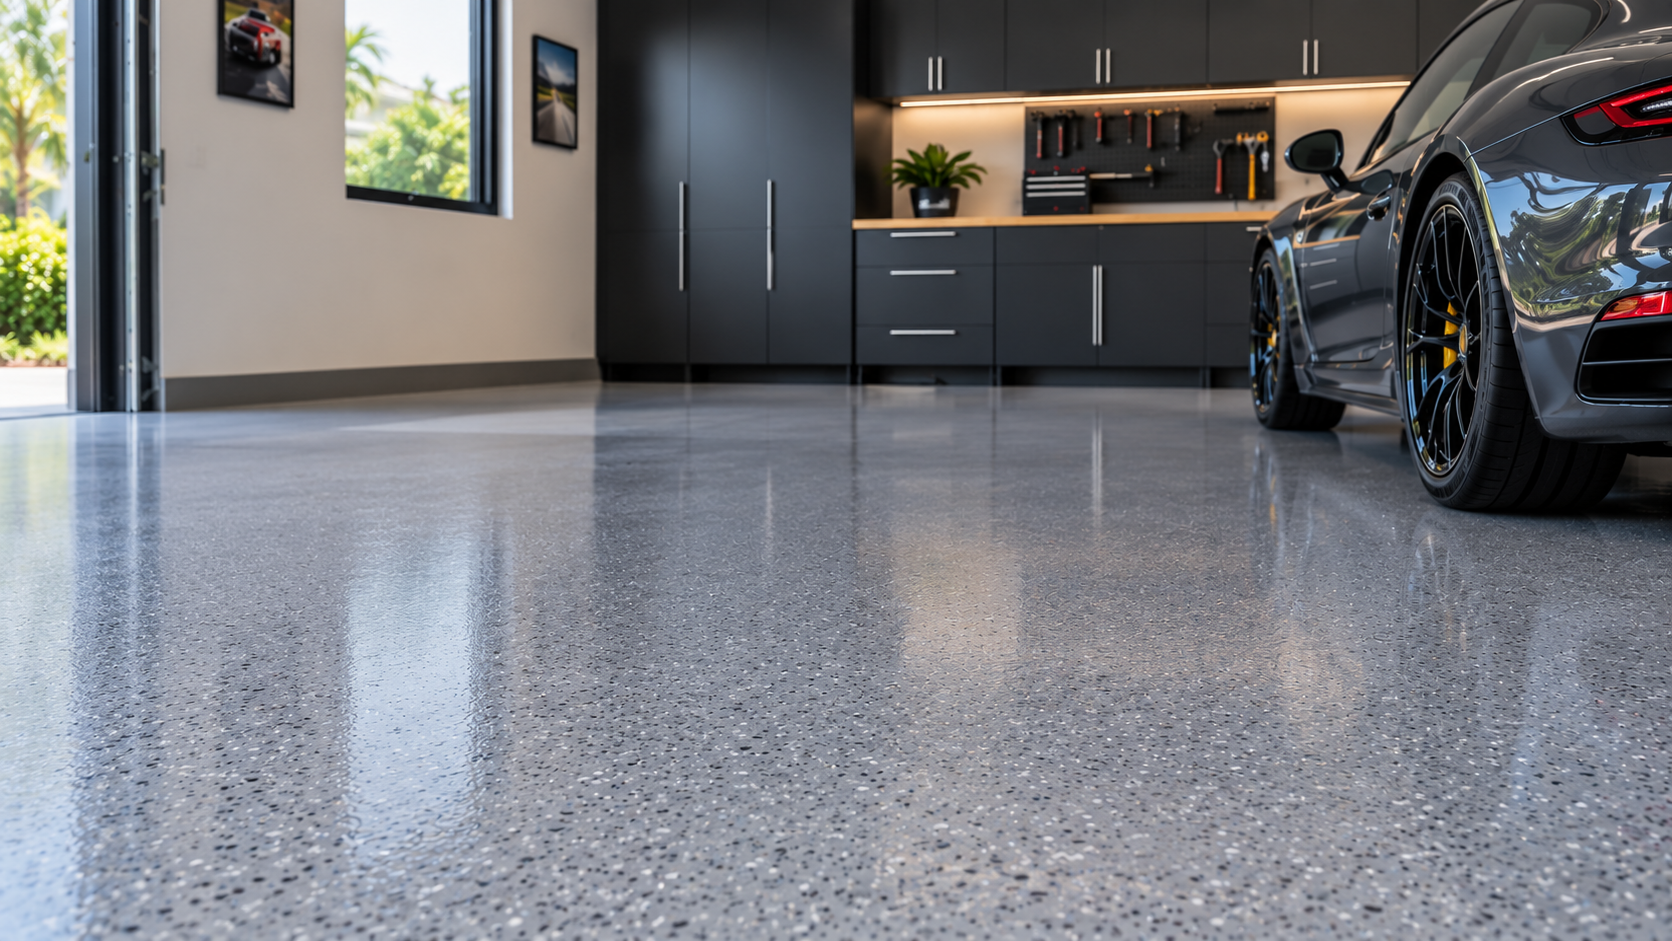
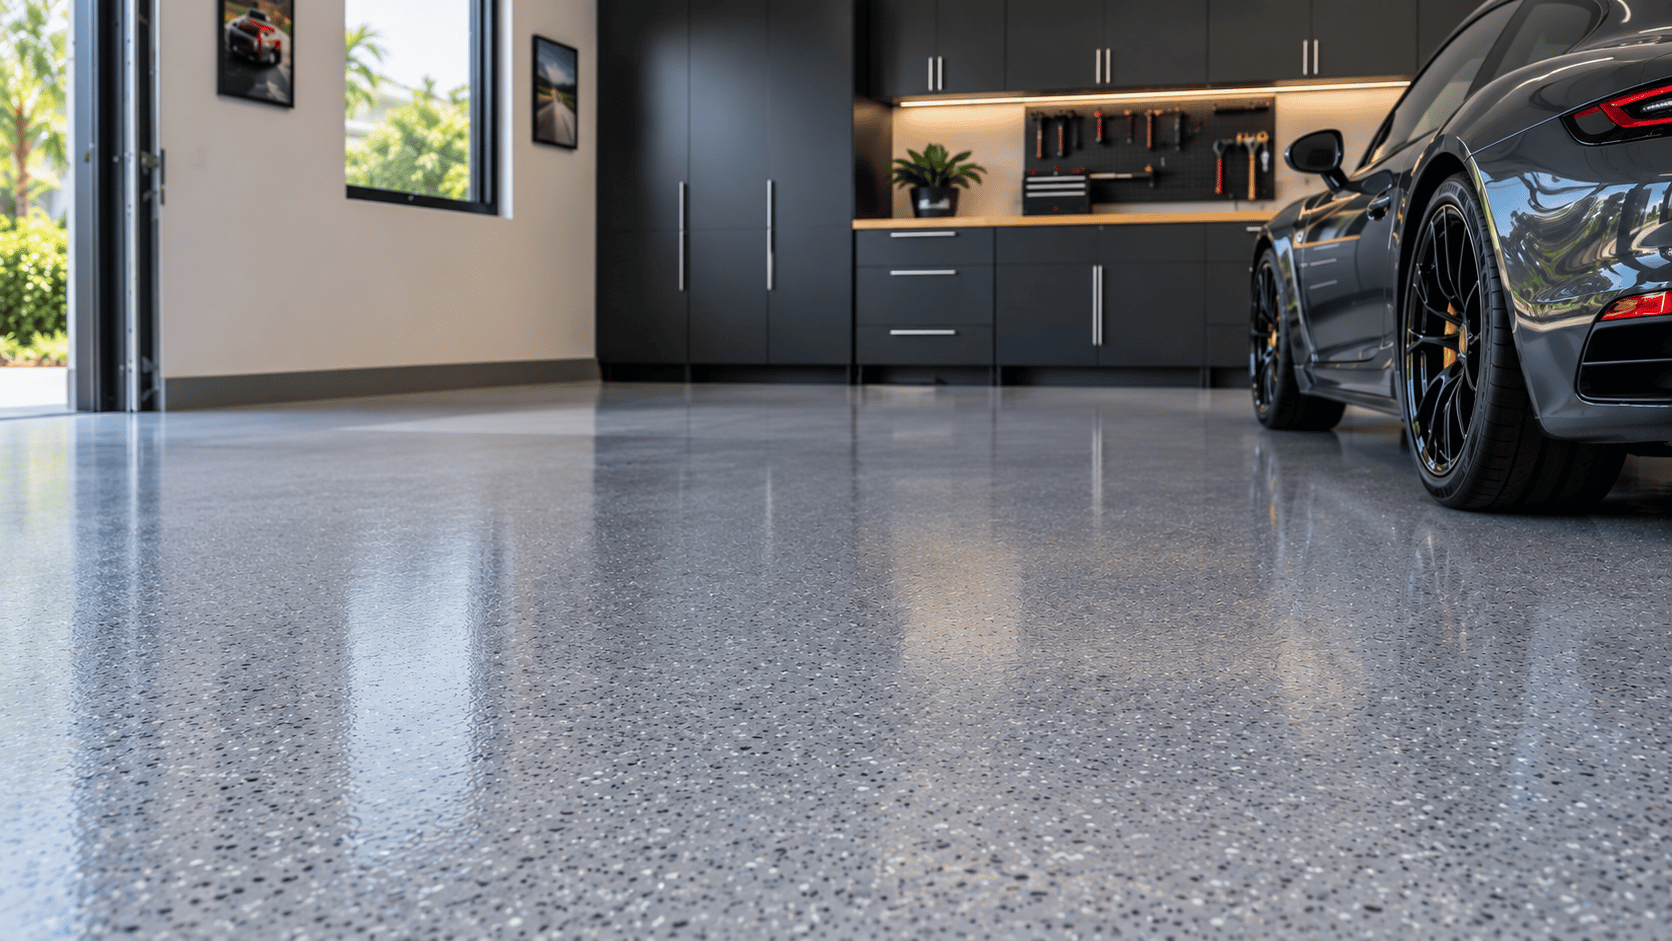
Image optimized for web

diff --git a/style.css b/style.css
@@ -9,16 +9,18 @@
 
 /* Prevent the page from panning/scrolling sideways on mobile if any
    element momentarily runs wider than the viewport (e.g. a non-wrapping
-   nav row or an unloaded image before it gets sized). */
+   nav row or an unloaded image before it gets sized). Uses overflow-x:
+   clip instead of hidden because hidden forces overflow-y to compute as
+   auto, which breaks position: sticky on the header (notably in iOS
+   Safari). */
 html {
-  overflow-x: hidden;
+  overflow-x: clip;
 }
 
 body {
-  overflow-x: hidden;
+  overflow-x: clip;
   width: 100%;
   max-width: 100vw;
-  position: relative;
 }
 
 /* Nav rows use flex-nowrap; let flex items shrink instead of forcing the
@@ -71,13 +73,16 @@ body {
   padding: 64px 0;
   background-image:
     linear-gradient(100deg, rgba(8, 12, 22, 0.85) 0%, rgba(8, 12, 22, 0.68) 35%, rgba(8, 12, 22, 0.32) 62%, rgba(8, 12, 22, 0.08) 100%),
-    url("assets/main-photo-garage-epoxy.png");
+    url("assets/main-photo-garage-epoxy-mobile.png");
   background-size: cover;
   background-position: right center;
 }
 
 @media (min-width: 768px) {
   .hero-section {
+    background-image:
+      linear-gradient(100deg, rgba(8, 12, 22, 0.85) 0%, rgba(8, 12, 22, 0.68) 35%, rgba(8, 12, 22, 0.32) 62%, rgba(8, 12, 22, 0.08) 100%),
+      url("assets/main-photo-garage-epoxy.png");
     background-position: center;
   }
 }

diff --git a/index.html b/index.html
@@ -74,7 +74,7 @@
       <div class="container">
         <div class="hero-content">
           <p class="hero-eyebrow mb-2">Durable&nbsp;&nbsp;/&nbsp;&nbsp;Beautiful&nbsp;&nbsp;/&nbsp;&nbsp;Built to Last</p>
-          <h1 class="display-4 fw-bold text-white mb-3">Transform Your Garage <br><span class="text-gold-light">Into a Masterpiece</span></h1>
+          <h1 class="display-4 fw-bold text-white mb-3">Transform Your Garage with <br><span class="text-gold-light">Epoxy Flooring</span></h1>
           <p class="lead hero-subtext mb-4">
             Get a garage floor that looks amazing, stands up to daily use,
             and adds lasting value to your home.
